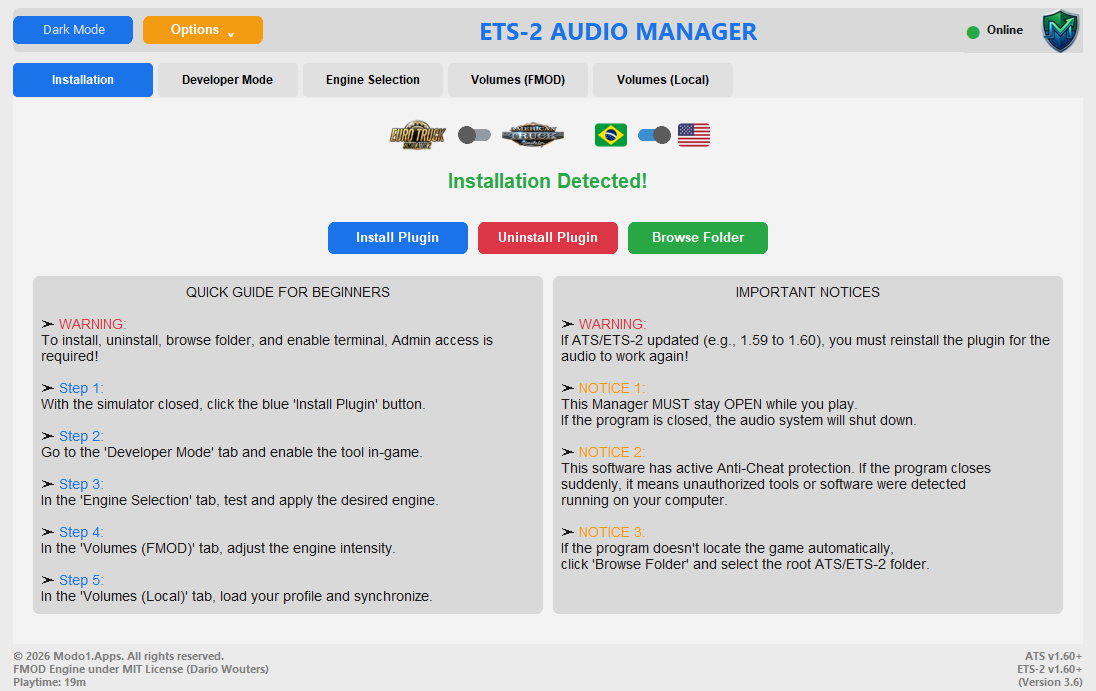
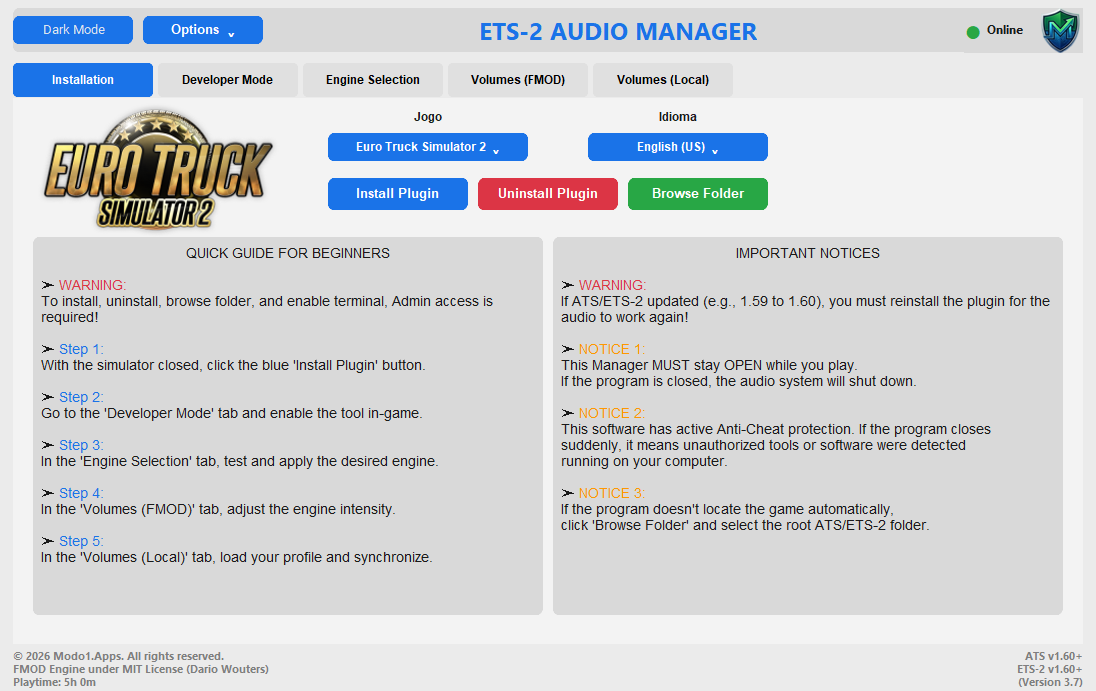
Add files via upload

Changed region(s): [[0.031, 0.152, 0.9927, 0.8813], [0.1241, 0.0, 0.2482, 0.0608], [0.062, 0.9725, 0.0931, 1.0]]

diff --git a/README.md b/README.md
@@ -29,6 +29,8 @@
   <img src="Gerenciador_2.png" alt="Tela de Volumes" width="800" style="border-radius: 10px; box-shadow: 0px 4px 10px rgba(0,0,0,0.5);"/>
   <br><br>
   <img src="Gerenciador_3.png" alt="Mais Detalhes" width="800" style="border-radius: 10px; box-shadow: 0px 4px 10px rgba(0,0,0,0.5);"/>
+  <br><br>
+  <img src="Gerenciador_4.png" alt="Notificações e Segurança" width="800" style="border-radius: 10px; box-shadow: 0px 4px 10px rgba(0,0,0,0.5);"/>
 </div>
 
 <br>
